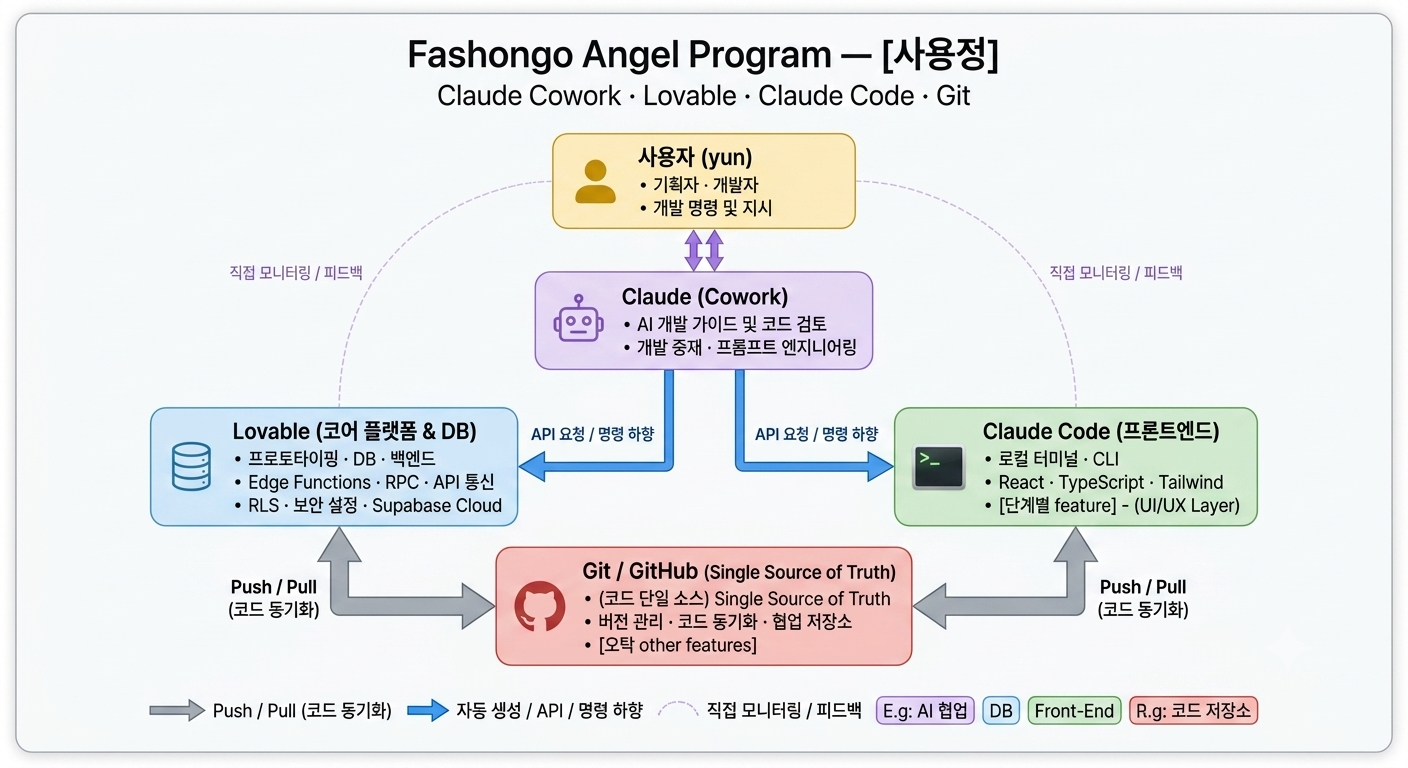
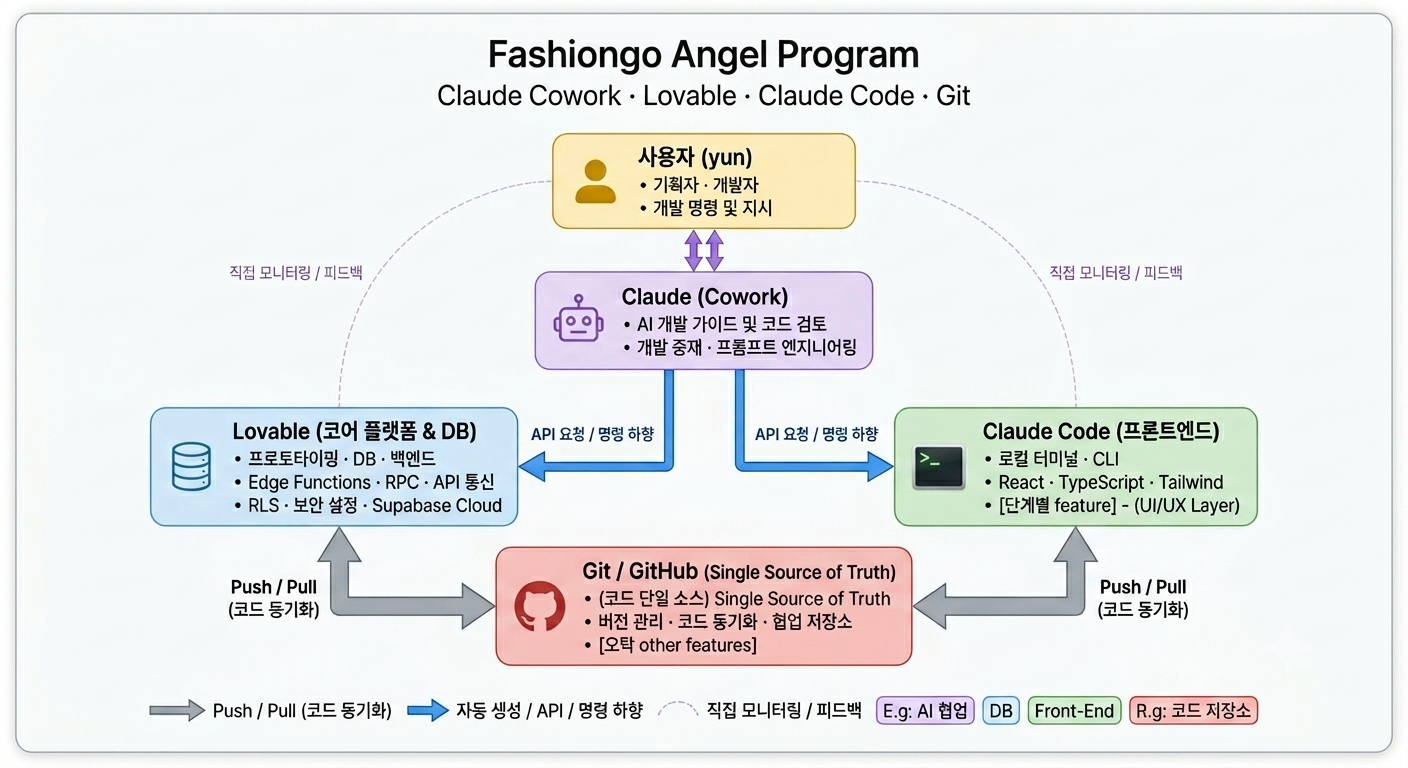
angels.html: 5 updates
1. 핵심 문제 3 타이틀 하위에 공장 사진 추가 (fg-angels-factories.png)
2. 05 갤러리 6번째 placeholder → 화이트보드 이미지 (fg-angels-extra.png)
3. 05 갤러리 안내문구('서비스 UI · 어드민...') 제거
4. 07 자료 유튜브 순서 변경: 스프린톤 1일차 → 2일차 → 1등팀 인터뷰
5. '사용 기술 스택' 도움말 light + gray 통일 (font-weight:300, color:#888)

diff --git a/angels.html b/angels.html
@@ -1411,7 +1411,7 @@
 <!-- ═══════════════════════════════════════ -->
 <!-- FG ANGELS (AI 프로젝트 — 신규)          -->
 <!-- ═══════════════════════════════════════ -->
-<section id="angels" class="prd-page"> <!-- Project cover --> <div class="prd-cover"> <div class="prd-cover-inner"> <div class="prd-cover-head"> <div> <div class="prd-cover-eyebrow">Project 01</div> <h1 class="prd-cover-title">FG Angels</h1> <p class="prd-cover-summary">북미 1위 B2B 패션 플랫폼 FashionGo의 아시아 공장 소싱 전 과정을 AI 에이전트로 자동화한 PoC.</p> </div> </div> <div class="prd-cover-meta"> <div class="prd-cover-meta-item"><span class="prd-cover-meta-label">Period</span><span class="prd-cover-meta-value">2026.03 – 2026.06</span></div> <div class="prd-cover-meta-item"><span class="prd-cover-meta-label">Team</span><span class="prd-cover-meta-value">NHN Commerce · 3인</span></div> <div class="prd-cover-meta-item"><span class="prd-cover-meta-label">Role</span><span class="prd-cover-meta-value">PM · Service Launcher</span></div> </div> </div> </div> <!-- Side nav --> <aside class="prd-side-nav" aria-label="Section navigation"> <ul class="prd-side-nav-list"> <li><a href="#angels-part1" data-scroll="angels-part1" class="sn-h1"><span class="sn-num">PART I</span><span class="sn-title">배경과 목표</span></a></li> <li><a href="#angels-overview" data-scroll="angels-overview"><span class="sn-num">00</span><span class="sn-title">개요</span></a></li> <li><a href="#angels-problem" data-scroll="angels-problem"><span class="sn-num">01</span><span class="sn-title">문제 정의</span></a></li> <li><a href="#angels-goals" data-scroll="angels-goals"><span class="sn-num">02</span><span class="sn-title">목표</span></a></li> <li><a href="#angels-part2" data-scroll="angels-part2" class="sn-h1"><span class="sn-num">PART II</span><span class="sn-title">실행과 결과</span></a></li> <li><a href="#angels-pipeline" data-scroll="angels-pipeline"><span class="sn-num">03</span><span class="sn-title">AI 에이전트 파이프라인</span></a></li> <li><a href="#angels-workflow" data-scroll="angels-workflow"><span class="sn-num">04</span><span class="sn-title">AI-Native 워크플로우</span></a></li> <li><a href="#angels-gallery" data-scroll="angels-gallery"><span class="sn-num">05</span><span class="sn-title">갤러리</span></a></li> <li><a href="#angels-learning" data-scroll="angels-learning"><span class="sn-num">06</span><span class="sn-title">학습과 회고</span></a></li> <li><a href="#angels-links" data-scroll="angels-links"><span class="sn-num">07</span><span class="sn-title">자료</span></a></li> </ul> </aside> <!-- Main --> <div class="prd-main"> <!-- PART I --> <section class="prd-part-divider" id="angels-part1"> <div class="prd-section-inner"> <div class="prd-part-eyebrow">PART I</div> <h1>배경과 목표</h1> <span class="prd-part-meta">Why &amp; What — 왜 만들었는가, 무엇을 이루려 했는가</span> </div> </section> <!-- 00 개요 --> <section class="prd-section" id="angels-overview"> <div class="prd-section-inner"> <div class="prd-section-tag"></div> <div class="prd-section-head"> <h2><span class="num-prefix">00</span>개요</h2> <p class="prd-lede">FG Angels는 북미 1위 B2B 패션 플랫폼 FashionGo의 <b>아시아 공장 소싱 전 과정을 AI 에이전트로 자동화한 PoC</b>입니다. 3년·50번의 출장이 필요하던 수동 소싱 프로세스를 AI 파이프라인으로 대체하는 것이 목표였습니다.</p> <p class="prd-lede">단 3인 크로스펑셔널 팀(도메인 전문가 · 기획자(본인) · 개발자)으로 기획부터 동작하는 프로토타입까지 단기간에 완성했고, <b>NHN AI 스프린톤 업무생산성 트랙</b>에서 12팀 중 1위로 선정됐습니다.</p> </div> <div class="prd-kpi-row"> <div class="prd-kpi"><div class="prd-kpi-value">1<span class="unit">위</span></div><div class="prd-kpi-label">NHN AI 스프린톤<br>업무생산성 트랙</div></div> <div class="prd-kpi"><div class="prd-kpi-value">12<span class="unit">팀</span></div><div class="prd-kpi-label">경쟁 팀 수</div></div> <div class="prd-kpi"><div class="prd-kpi-value">3<span class="unit">인</span></div><div class="prd-kpi-label">크로스펑셔널 팀 사이즈</div></div> <div class="prd-kpi"><div class="prd-kpi-value">1,000<span class="unit">만원</span></div><div class="prd-kpi-label">수상 상금</div></div> </div> <div class="prd-callout"> <div class="lbl">Key Takeaway</div> <p>FG Angels는 단순 업무 효율화 도구가 아니라, <b>글로벌 B2B 공급망 전 산업으로 확장 가능한 AI 인프라 구조</b>로 설계했습니다. 비개발자 기획자가 Lovable과 Claude Code를 직접 활용해 프로토타입을 End-to-End로 리딩한 것이 핵심입니다.</p> </div> </div> </section> <!-- 01 문제 정의 --> <section class="prd-section" id="angels-problem"> <div class="prd-section-inner"> <div class="prd-section-tag"></div> <div class="prd-section-head"> <h2><span class="num-prefix">01</span>문제 정의</h2> <p class="prd-lede">FashionGo는 큰 규모의 플랫폼이지만, 가장 중요한 <b>공급망(소싱) 단계가 100% 수동</b>으로 운영됐습니다. 공급망 디지털화가 서비스 규모를 따라가지 못한 상태가 핵심 문제입니다.</p> </div> <div class="prd-block"> <div class="prd-block-head"><h3>핵심 문제 3</h3></div> <div class="prd-problem-grid"> <div class="prd-problem-card"> <div class="pc-num">P1</div> <h3>수동 소싱 의존</h3> <p>아시아 공장 소싱이 3년 · 50번의 출장이 필요한 100% 수동 방식으로만 운영되어 시간·비용 비효율이 큽니다.</p> </div> <div class="prd-problem-card"> <div class="pc-num">P2</div> <h3>공급망 AI 부재</h3> <p>중국·한국 공장(1688 · Alibaba) → ERP → FashionGo로 이어지는 공급망 전체에 AI 자동화가 적용되지 않았습니다.</p> </div> <div class="prd-problem-card"> <div class="pc-num">P3</div> <h3>디지털화 격차</h3> <p>서비스 규모에 비해 공급망 디지털화는 크게 뒤처져 성장 한계를 만들고 있습니다.</p> </div> </div> </div> <div class="prd-callout important"> <div class="lbl">Important</div> <p>3가지 문제는 개별적인 문제가 아니라 하나의 사슬입니다. 수동 의존이 자동화 부재의 원인이며, 그 결과 디지털화 격차가 누적됩니다. 단계별 도구 개선이 아닌, <b>소싱 파이프라인 전체를 자동화하여 재설계</b>해야 풀리는 문제입니다.</p> </div> </div> </section> <!-- 02 목표와 성과 --> <section class="prd-section" id="angels-goals"> <div class="prd-section-inner"> <div class="prd-section-tag"></div> <div class="prd-section-head"> <h2><span class="num-prefix">02</span>목표</h2> <p class="prd-lede">목표는 단기 PoC를 통해 <b>AI 에이전트 기반 소싱 파이프라인의 가능성을 검증</b>하는 것이었습니다. 기획부터 동작하는 프로토타입까지 3개월 안에 End-to-End로 완성하는 것이 1차 목표였습니다.</p> </div> <div class="prd-block"> <div class="prd-table-wrap"> <table> <thead><tr><th>지표</th><th>목표</th><th>비고</th></tr></thead> <tbody> <tr><td class="lbl-cell">PoC 완성도</td><td>동작하는 프로토타입<br>End-to-End 동작</td><td>Lovable과 Claude Code 기반 개발 및 배포 완료</td></tr> <tr><td class="lbl-cell">대외 검증</td><td>스프린톤 통과<br>1위 · 상금 1,000만원</td><td>업무생산성 트랙 참자가 12팀 中</td></tr> <tr><td class="lbl-cell">대중 노출</td><td>한경 등 뉴스 기사 2건</td><td>YouTube 데모 영상 공개</td></tr></tbody> </table> </div> </div> <div class="prd-callout"> <div class="lbl">So What</div> <p>3가지 결과 중 가장 의미 있는 건 <b>비개발자 기획자가 동작하는 프로토타입을 직접 만들어 검증까지 받아냈다는 점</b>입니다. 나머지(스프린톤 수상 · 뉴스 노출)는 이를 뒷받침하는 결과 지표이고, 기획자의 직접 구현은 이번 프로젝트가 보여준 새로운 작업 방식의 핵심입니다.</p> </div> </div> </section> <!-- PART II --> <section class="prd-part-divider" id="angels-part2"> <div class="prd-section-inner"> <div class="prd-part-eyebrow">PART II</div> <h1>실행과 결과</h1> <span class="prd-part-meta">How — 무엇을 만들고, 어떻게 만들었는가</span> </div> </section> <!-- 03 AI 파이프라인 --> <section class="prd-section" id="angels-pipeline"> <div class="prd-section-inner"> <div class="prd-section-tag"></div> <div class="prd-section-head"> <h2><span class="num-prefix">03</span>AI 에이전트 파이프라인</h2> <p class="prd-lede">FG Angels의 핵심은 <b>트렌드 분석 → 공장 소싱 → 스코어링 → 자기학습 → 자동 등록</b>까지 이어지는 5단계 자동화 파이프라인입니다. 24h Agent로 무중단 동작하도록 설계했습니다.</p> </div> <div class="prd-block"> <div class="prd-block-head"><h3>5단계 자동화 흐름</h3></div> <figure style="margin:24px 0;"><div style="background:#fafafa;border:1px solid #eee;border-radius:12px;overflow:hidden;"><img loading="lazy" decoding="async" src="images/fg-angels-dashboard.png" alt="Angel Program 대시보드 — 운영 현황 + Angel Agent 7단계 워크플로 진행률" style="width:100%;display:block;"></div><figcaption style="font-size:12px;color:#888;margin-top:10px;text-align:center;line-height:1.5;">Angel Program 어드민 대시보드 — 운영 현황 · Angel Agent 7단계 워크플로 진행률</figcaption></figure> <div class="prd-table-wrap"> <table> <thead><tr><th>단계</th><th>설명</th></tr></thead> <tbody> <tr><td class="lbl-cell">01 · 트렌드 분석</td><td>북미 패션 트렌드 수집·분석</td></tr> <tr><td class="lbl-cell">02 · 공장 소싱</td><td>1688 · Alibaba 자동 탐색·매칭</td></tr> <tr><td class="lbl-cell">03 · 공장 스코어링</td><td>AI 기반 품질·신뢰도 자동 평가</td></tr> <tr><td class="lbl-cell">04 · 자기학습</td><td>피드백 기반 모델 자동 개선</td></tr> <tr><td class="lbl-cell">05 · 자동 등록</td><td>FashionGo ERP 자동 상품 등록</td></tr> </tbody> </table> </div> <p style="font-size:12px;color:#888;margin-top:14px;line-height:1.7;"><strong style="color:#555;">사용 기술 스택</strong> · Vision AI · Gemini 2.5 Flash · Vertex AI · 24h Agent · <span style="color:#191919;font-weight:600;">Lovable</span> · <span style="color:#191919;font-weight:600;">Claude Code</span></p> </div> <div class="prd-callout note"> <div class="lbl">Note</div> <p>단순 업무 효율화가 아닌 <b>글로벌 B2B 전 산업으로 확장 가능한 AI 인프라 구조</b>로 설계했습니다. 5단계는 패션·소싱에 국한되지 않고, 다른 도메인의 공급망에도 그대로 응용 가능한 추상화 수준을 유지했습니다.</p> </div> </div> </section> <!-- 04 AI-Native 워크플로우 --> <section class="prd-section" id="angels-workflow"> <div class="prd-section-inner"> <div class="prd-section-tag"></div> <div class="prd-section-head"> <h2><span class="num-prefix">04</span>AI-Native 워크플로우</h2> <p class="prd-lede">비개발자 기획자 · 도메인 전문가 · 개발자, 3인이 <b>Lovable · Claude Code · Git을 결합해 동시다발적으로 커밋·배포</b>한 AI 네이티브 협업 구조입니다. 기획자가 Git 워크플로우에 직접 참여한 것이 가장 큰 차별점입니다.</p> </div> <div class="prd-block"> <div class="prd-block-head"><h3>3-Tool Stack</h3></div> <figure style="margin:24px 0;"><div style="background:#fafafa;border:1px solid #eee;border-radius:12px;overflow:hidden;"><img loading="lazy" decoding="async" src="images/fg-angels-tool-stack.png" alt="Fashongo Angel Program — Claude Cowork · Lovable · Claude Code · Git 협업 다이어그램" style="width:100%;display:block;"></div><figcaption style="font-size:12px;color:#888;margin-top:10px;text-align:center;line-height:1.5;">Fashongo Angel Program · Claude Cowork · Lovable · Claude Code · Git 협업 구조</figcaption></figure> <div class="prd-tool-stack"> <div class="prd-tool-card"> <div class="tool-role">UI · 프로토타이핑</div> <div class="tool-name">Lovable</div> <p>자연어 프롬프트로 React 화면을 즉시 생성·수정. 기획자가 직접 UI를 만들어 빠르게 검증.</p> </div> <div class="prd-tool-card"> <div class="tool-role">로직 · 리팩토링 · 디버깅</div> <div class="tool-name">Claude Code</div> <p>Lovable이 다루기 어려운 복잡 로직 · API 연동 · 머지 충돌을 CLI 기반으로 처리. 코드 품질 보강.</p> </div> <div class="prd-tool-card"> <div class="tool-role">동시 커밋 · 배포</div> <div class="tool-name">Git · GitHub</div> <p>Lovable 프로젝트를 GitHub에 연결. 3명이 각자 브랜치에서 동시 작업, 머지 후 자동 배포까지.</p> </div> </div> </div> <div class="prd-block"> <div class="prd-block-head"><h3>3인 동시다발 커밋</h3></div> <div class="prd-insight-list"> <div class="prd-insight-row"> <div class="prd-insight-num">1</div> <div class="prd-insight-body"> <div class="prd-insight-title">기획자(본인) — 트렌드 분석 · 상품 매칭 · UI</div> <p>북미 패션 <b>트렌드 분석 및 리포트</b>, <b>소싱 가능 상품 · 타겟 상품 · 유사 상품 자동 매칭</b> 기능을 직접 구현. Lovable로 화면을 만들고 Claude Code로 로직·디테일을 다듬어 git commit · push까지. 비개발자도 Git 워크플로우에 직접 참여.</p> </div> </div> <div class="prd-insight-row"> <div class="prd-insight-num">2</div> <div class="prd-insight-body"> <div class="prd-insight-title">개발자 — AI 파이프라인 · API</div> <p>Vertex AI · Gemini 연동 → Claude Code로 리팩토링 → git commit · push.</p> </div> </div> <div class="prd-insight-row"> <div class="prd-insight-num">3</div> <div class="prd-insight-body"> <div class="prd-insight-title">도메인 전문가 — 공장 스코어링 · 에이전트 프로세스</div> <p><b>공장 스코어링 룰 설계</b>와 <b>대시보드 에이전트 프로세스 정립</b>을 담당. 도메인 지식을 기준으로 룰을 짜고, Claude Code로 코드화 → git commit · push.</p> </div> </div> </div> </div> <div class="prd-block"> <div class="prd-block-head"><h3>머지 → 동기화 → 배포</h3></div> <div class="prd-flow"> <div class="prd-flow-step"><div class="prd-flow-num">01</div><div><div class="prd-flow-name">GitHub 머지</div><div class="prd-flow-desc">Claude Code가 충돌 해결 · 리뷰 보조</div></div></div> <div class="prd-flow-step"><div class="prd-flow-num">02</div><div><div class="prd-flow-name">Lovable 동기화</div><div class="prd-flow-desc">main 브랜치 변경 자동 반영</div></div></div> <div class="prd-flow-step"><div class="prd-flow-num">03</div><div><div class="prd-flow-name">자동 배포</div><div class="prd-flow-desc">factory-finder-fashiongo.lovable.app</div></div></div> </div> </div>  <div class="prd-callout"> <div class="lbl">Highlight</div> <p>결과적으로 <b>비개발자 기획자도 Git 워크플로우에 직접 참여</b>해 코드를 커밋·배포할 수 있었고, AI가 충돌 해결·코드 품질을 보조하면서 3인 팀의 개발 속도를 크게 단축시켰습니다. 기획자가 Service Launcher가 될 수 있다는 가설을 실제 출시로 증명한 사례입니다.</p> </div> </div> </section> <!-- 05 갤러리 --> <section class="prd-section" id="angels-gallery"> <div class="prd-section-inner"> <div class="prd-section-tag"></div> <div class="prd-section-head"> <h2><span class="num-prefix">05</span>갤러리</h2> <p class="prd-lede">서비스 UI · 어드민 대시보드 · 팀 활동을 한 자리에 모았습니다. 6번째 슬롯에 추후 이미지를 추가할 예정입니다.</p> </div> <div class="prd-gallery"> <figure> <div class="img-frame"><img loading="lazy" decoding="async" src="images/fg-angels-service.png" alt="FG Angels 트렌드 상품 탐색 화면"></div> <figcaption>실제 서비스 UI · 트렌드 상품 탐색</figcaption> </figure> <figure> <div class="img-frame"><img loading="lazy" decoding="async" src="images/fg-angels-presentation.png" alt="NHN AI 스프린톤 발표 슬라이드"></div> <figcaption>발표 슬라이드 · 미녀삼총사 팀</figcaption> </figure> <figure> <div class="img-frame"><img loading="lazy" decoding="async" src="images/fg-angels-team.png" alt="FG Angels 팀 인터뷰"></div> <figcaption>팀 인터뷰 · 손주영 · 윤혜련 · 임동빈</figcaption> </figure> <figure> <div class="img-frame"><img loading="lazy" decoding="async" src="images/fg-angels-matching.png" alt="소싱 매칭 결과 어드민"></div> <figcaption>소싱 매칭 결과 — 트렌드 ↔ 공장 자동 매칭</figcaption> </figure> <figure> <div class="img-frame"><img loading="lazy" decoding="async" src="images/fg-angels-report.png" alt="트렌드 리포트 어드민"></div> <figcaption>트렌드 리포트 — SNS·커머스 트렌드 키워드 분석</figcaption> </figure> <figure> <div class="img-frame empty"> <div style="font-size:24px;opacity:0.4;"></div> <div style="font-size:12px;">images/fg-angels-extra.png</div> <div style="font-size:11px;color:#999;">추가 이미지 자리</div> </div> <figcaption>추가 이미지 (예정)</figcaption> </figure> </div> </div> </section> <!-- 06 학습과 회고 --> <section class="prd-section" id="angels-learning"> <div class="prd-section-inner"> <div class="prd-section-tag"></div> <div class="prd-section-head"> <h2><span class="num-prefix">06</span>학습과 회고</h2> <p class="prd-lede">이번 프로젝트가 남긴 가장 큰 자산은 결과물 자체가 아니라, <b>"기획자가 직접 서비스를 런칭할 수 있다"는 가설을 스스로 검증했다는 점</b>입니다.</p> </div> <div class="prd-insight-list"> <div class="prd-insight-row"> <div class="prd-insight-num">1</div> <div class="prd-insight-body"> <div class="prd-insight-title">3인 크로스펑셔널 협업의 가능성</div> <p>도메인 전문가 · 개발자와 함께 아이디어부터 실제 동작하는 AI 에이전트까지 단기간에 구현. 각 역할의 언어를 이해하고 조율하는 기획자의 역할을 체득.</p> </div> </div> <div class="prd-insight-row"> <div class="prd-insight-num">2</div> <div class="prd-insight-body"> <div class="prd-insight-title">기획자 → Service Launcher 전환</div> <p>AI 툴(Lovable · Claude Code 등)을 직접 다루어 기획서를 넘어 실제 동작하는 프로토타입을 구현. 기획자도 서비스를 직접 런칭할 수 있음을 스스로 증명.</p> </div> </div> </div> </div> </section> <!-- 07 자료 --> <section class="prd-section" id="angels-links"> <div class="prd-section-inner"> <div class="prd-section-tag"></div> <div class="prd-section-head"> <h2><span class="num-prefix">07</span>자료</h2> <p class="prd-lede">실제 서비스 · 발표 자료 · 데모 영상 · 뉴스 보도를 모두 모았습니다.</p> </div> <div class="prd-block"> <div class="prd-video-grid"> <figure class="prd-video"> <iframe loading="lazy" src="https://www.youtube.com/embed/_2gPgEb4iJo" title="FG Angels 데모 영상" allow="accelerometer; clipboard-write; encrypted-media; gyroscope; picture-in-picture; web-share" allowfullscreen></iframe> <figcaption>1등팀 인터뷰</figcaption> </figure> <figure class="prd-video"> <iframe loading="lazy" src="https://www.youtube.com/embed/yk9EnnziWVw" title="NHN AI 스프린톤 1일차" allow="accelerometer; clipboard-write; encrypted-media; gyroscope; picture-in-picture; web-share" allowfullscreen></iframe> <figcaption>스프린톤 1일차 (라이브)</figcaption> </figure> <figure class="prd-video"> <iframe loading="lazy" src="https://www.youtube.com/embed/w5h4cxDSTog" title="NHN AI 스프린톤 2일차" allow="accelerometer; clipboard-write; encrypted-media; gyroscope; picture-in-picture; web-share" allowfullscreen></iframe> <figcaption>스프린톤 2일차 (라이브)</figcaption> </figure> </div> </div> <div class="prd-block"> <div class="prd-table-wrap"> <table> <thead><tr><th>구분</th><th>제목</th><th>링크</th></tr></thead> <tbody> <tr><td class="lbl-cell">실제 서비스</td><td>FG Angels (Lovable)</td><td><a href="https://factory-finder-fashiongo.lovable.app/" target="_blank" rel="noopener">factory-finder-fashiongo.lovable.app</a></td></tr> <tr><td class="lbl-cell">발표 자료</td><td>Gamma 슬라이드</td><td><a href="https://gamma.app/docs/FG-Angels-ngjjjxo4700hh9s?mode=doc" target="_blank" rel="noopener">gamma.app/docs/FG-Angels</a></td></tr> <tr><td class="lbl-cell">뉴스</td><td>한국경제 (092)</td><td><a href="https://n.news.naver.com/mnews/article/092/[phone redacted]?sid=105" target="_blank" rel="noopener">n.news.naver.com/092/[phone redacted]</a></td></tr> <tr><td class="lbl-cell">뉴스</td><td>한국경제 (018)</td><td><a href="https://n.news.naver.com/mnews/article/018/[phone redacted]?sid=105" target="_blank" rel="noopener">n.news.naver.com/018/[phone redacted]</a></td></tr> </tbody> </table> </div> </div> </div> </section> </div> <div class="prd-back-list-wrap"><a href="portfolio.html" class="prd-back-list">← 목록 보기</a></div> <!-- Footer --> <footer class="prd-footer"> <div class="prd-footer-inner"> <div class="prd-footer-row"> <div class="prd-footer-left"> <div class="prd-footer-title">FG Angels — AI Agent for FashionGo</div> <div class="prd-footer-sub">윤혜련 · Service Product Manager · 2026.03 – 2026.06</div> </div> <div class="prd-footer-contact"> <a href="mailto:[email redacted]" class="prd-footer-link"> <span aria-hidden="true"></span> [email redacted]
+<section id="angels" class="prd-page"> <!-- Project cover --> <div class="prd-cover"> <div class="prd-cover-inner"> <div class="prd-cover-head"> <div> <div class="prd-cover-eyebrow">Project 01</div> <h1 class="prd-cover-title">FG Angels</h1> <p class="prd-cover-summary">북미 1위 B2B 패션 플랫폼 FashionGo의 아시아 공장 소싱 전 과정을 AI 에이전트로 자동화한 PoC.</p> </div> </div> <div class="prd-cover-meta"> <div class="prd-cover-meta-item"><span class="prd-cover-meta-label">Period</span><span class="prd-cover-meta-value">2026.03 – 2026.06</span></div> <div class="prd-cover-meta-item"><span class="prd-cover-meta-label">Team</span><span class="prd-cover-meta-value">NHN Commerce · 3인</span></div> <div class="prd-cover-meta-item"><span class="prd-cover-meta-label">Role</span><span class="prd-cover-meta-value">PM · Service Launcher</span></div> </div> </div> </div> <!-- Side nav --> <aside class="prd-side-nav" aria-label="Section navigation"> <ul class="prd-side-nav-list"> <li><a href="#angels-part1" data-scroll="angels-part1" class="sn-h1"><span class="sn-num">PART I</span><span class="sn-title">배경과 목표</span></a></li> <li><a href="#angels-overview" data-scroll="angels-overview"><span class="sn-num">00</span><span class="sn-title">개요</span></a></li> <li><a href="#angels-problem" data-scroll="angels-problem"><span class="sn-num">01</span><span class="sn-title">문제 정의</span></a></li> <li><a href="#angels-goals" data-scroll="angels-goals"><span class="sn-num">02</span><span class="sn-title">목표</span></a></li> <li><a href="#angels-part2" data-scroll="angels-part2" class="sn-h1"><span class="sn-num">PART II</span><span class="sn-title">실행과 결과</span></a></li> <li><a href="#angels-pipeline" data-scroll="angels-pipeline"><span class="sn-num">03</span><span class="sn-title">AI 에이전트 파이프라인</span></a></li> <li><a href="#angels-workflow" data-scroll="angels-workflow"><span class="sn-num">04</span><span class="sn-title">AI-Native 워크플로우</span></a></li> <li><a href="#angels-gallery" data-scroll="angels-gallery"><span class="sn-num">05</span><span class="sn-title">갤러리</span></a></li> <li><a href="#angels-learning" data-scroll="angels-learning"><span class="sn-num">06</span><span class="sn-title">학습과 회고</span></a></li> <li><a href="#angels-links" data-scroll="angels-links"><span class="sn-num">07</span><span class="sn-title">자료</span></a></li> </ul> </aside> <!-- Main --> <div class="prd-main"> <!-- PART I --> <section class="prd-part-divider" id="angels-part1"> <div class="prd-section-inner"> <div class="prd-part-eyebrow">PART I</div> <h1>배경과 목표</h1> <span class="prd-part-meta">Why &amp; What — 왜 만들었는가, 무엇을 이루려 했는가</span> </div> </section> <!-- 00 개요 --> <section class="prd-section" id="angels-overview"> <div class="prd-section-inner"> <div class="prd-section-tag"></div> <div class="prd-section-head"> <h2><span class="num-prefix">00</span>개요</h2> <p class="prd-lede">FG Angels는 북미 1위 B2B 패션 플랫폼 FashionGo의 <b>아시아 공장 소싱 전 과정을 AI 에이전트로 자동화한 PoC</b>입니다. 3년·50번의 출장이 필요하던 수동 소싱 프로세스를 AI 파이프라인으로 대체하는 것이 목표였습니다.</p> <p class="prd-lede">단 3인 크로스펑셔널 팀(도메인 전문가 · 기획자(본인) · 개발자)으로 기획부터 동작하는 프로토타입까지 단기간에 완성했고, <b>NHN AI 스프린톤 업무생산성 트랙</b>에서 12팀 중 1위로 선정됐습니다.</p> </div> <div class="prd-kpi-row"> <div class="prd-kpi"><div class="prd-kpi-value">1<span class="unit">위</span></div><div class="prd-kpi-label">NHN AI 스프린톤<br>업무생산성 트랙</div></div> <div class="prd-kpi"><div class="prd-kpi-value">12<span class="unit">팀</span></div><div class="prd-kpi-label">경쟁 팀 수</div></div> <div class="prd-kpi"><div class="prd-kpi-value">3<span class="unit">인</span></div><div class="prd-kpi-label">크로스펑셔널 팀 사이즈</div></div> <div class="prd-kpi"><div class="prd-kpi-value">1,000<span class="unit">만원</span></div><div class="prd-kpi-label">수상 상금</div></div> </div> <div class="prd-callout"> <div class="lbl">Key Takeaway</div> <p>FG Angels는 단순 업무 효율화 도구가 아니라, <b>글로벌 B2B 공급망 전 산업으로 확장 가능한 AI 인프라 구조</b>로 설계했습니다. 비개발자 기획자가 Lovable과 Claude Code를 직접 활용해 프로토타입을 End-to-End로 리딩한 것이 핵심입니다.</p> </div> </div> </section> <!-- 01 문제 정의 --> <section class="prd-section" id="angels-problem"> <div class="prd-section-inner"> <div class="prd-section-tag"></div> <div class="prd-section-head"> <h2><span class="num-prefix">01</span>문제 정의</h2> <p class="prd-lede">FashionGo는 큰 규모의 플랫폼이지만, 가장 중요한 <b>공급망(소싱) 단계가 100% 수동</b>으로 운영됐습니다. 공급망 디지털화가 서비스 규모를 따라가지 못한 상태가 핵심 문제입니다.</p> </div> <div class="prd-block"> <div class="prd-block-head"><h3>핵심 문제 3</h3></div> <figure style="margin:24px 0;"><div style="background:#fafafa;border:1px solid #eee;border-radius:12px;overflow:hidden;"><img loading="lazy" decoding="async" src="images/fg-angels-factories.png" alt="아시아 공장 소싱 — 수동 운영 현장 사진들" style="width:100%;display:block;"></div><figcaption style="font-size:12px;color:#888;margin-top:10px;text-align:center;line-height:1.5;">아시아 공장 소싱 현장 — 100% 수동 운영 중</figcaption></figure> <div class="prd-problem-grid"> <div class="prd-problem-card"> <div class="pc-num">P1</div> <h3>수동 소싱 의존</h3> <p>아시아 공장 소싱이 3년 · 50번의 출장이 필요한 100% 수동 방식으로만 운영되어 시간·비용 비효율이 큽니다.</p> </div> <div class="prd-problem-card"> <div class="pc-num">P2</div> <h3>공급망 AI 부재</h3> <p>중국·한국 공장(1688 · Alibaba) → ERP → FashionGo로 이어지는 공급망 전체에 AI 자동화가 적용되지 않았습니다.</p> </div> <div class="prd-problem-card"> <div class="pc-num">P3</div> <h3>디지털화 격차</h3> <p>서비스 규모에 비해 공급망 디지털화는 크게 뒤처져 성장 한계를 만들고 있습니다.</p> </div> </div> </div> <div class="prd-callout important"> <div class="lbl">Important</div> <p>3가지 문제는 개별적인 문제가 아니라 하나의 사슬입니다. 수동 의존이 자동화 부재의 원인이며, 그 결과 디지털화 격차가 누적됩니다. 단계별 도구 개선이 아닌, <b>소싱 파이프라인 전체를 자동화하여 재설계</b>해야 풀리는 문제입니다.</p> </div> </div> </section> <!-- 02 목표와 성과 --> <section class="prd-section" id="angels-goals"> <div class="prd-section-inner"> <div class="prd-section-tag"></div> <div class="prd-section-head"> <h2><span class="num-prefix">02</span>목표</h2> <p class="prd-lede">목표는 단기 PoC를 통해 <b>AI 에이전트 기반 소싱 파이프라인의 가능성을 검증</b>하는 것이었습니다. 기획부터 동작하는 프로토타입까지 3개월 안에 End-to-End로 완성하는 것이 1차 목표였습니다.</p> </div> <div class="prd-block"> <div class="prd-table-wrap"> <table> <thead><tr><th>지표</th><th>목표</th><th>비고</th></tr></thead> <tbody> <tr><td class="lbl-cell">PoC 완성도</td><td>동작하는 프로토타입<br>End-to-End 동작</td><td>Lovable과 Claude Code 기반 개발 및 배포 완료</td></tr> <tr><td class="lbl-cell">대외 검증</td><td>스프린톤 통과<br>1위 · 상금 1,000만원</td><td>업무생산성 트랙 참자가 12팀 中</td></tr> <tr><td class="lbl-cell">대중 노출</td><td>한경 등 뉴스 기사 2건</td><td>YouTube 데모 영상 공개</td></tr></tbody> </table> </div> </div> <div class="prd-callout"> <div class="lbl">So What</div> <p>3가지 결과 중 가장 의미 있는 건 <b>비개발자 기획자가 동작하는 프로토타입을 직접 만들어 검증까지 받아냈다는 점</b>입니다. 나머지(스프린톤 수상 · 뉴스 노출)는 이를 뒷받침하는 결과 지표이고, 기획자의 직접 구현은 이번 프로젝트가 보여준 새로운 작업 방식의 핵심입니다.</p> </div> </div> </section> <!-- PART II --> <section class="prd-part-divider" id="angels-part2"> <div class="prd-section-inner"> <div class="prd-part-eyebrow">PART II</div> <h1>실행과 결과</h1> <span class="prd-part-meta">How — 무엇을 만들고, 어떻게 만들었는가</span> </div> </section> <!-- 03 AI 파이프라인 --> <section class="prd-section" id="angels-pipeline"> <div class="prd-section-inner"> <div class="prd-section-tag"></div> <div class="prd-section-head"> <h2><span class="num-prefix">03</span>AI 에이전트 파이프라인</h2> <p class="prd-lede">FG Angels의 핵심은 <b>트렌드 분석 → 공장 소싱 → 스코어링 → 자기학습 → 자동 등록</b>까지 이어지는 5단계 자동화 파이프라인입니다. 24h Agent로 무중단 동작하도록 설계했습니다.</p> </div> <div class="prd-block"> <div class="prd-block-head"><h3>5단계 자동화 흐름</h3></div> <figure style="margin:24px 0;"><div style="background:#fafafa;border:1px solid #eee;border-radius:12px;overflow:hidden;"><img loading="lazy" decoding="async" src="images/fg-angels-dashboard.png" alt="Angel Program 대시보드 — 운영 현황 + Angel Agent 7단계 워크플로 진행률" style="width:100%;display:block;"></div><figcaption style="font-size:12px;color:#888;margin-top:10px;text-align:center;line-height:1.5;">Angel Program 어드민 대시보드 — 운영 현황 · Angel Agent 7단계 워크플로 진행률</figcaption></figure> <div class="prd-table-wrap"> <table> <thead><tr><th>단계</th><th>설명</th></tr></thead> <tbody> <tr><td class="lbl-cell">01 · 트렌드 분석</td><td>북미 패션 트렌드 수집·분석</td></tr> <tr><td class="lbl-cell">02 · 공장 소싱</td><td>1688 · Alibaba 자동 탐색·매칭</td></tr> <tr><td class="lbl-cell">03 · 공장 스코어링</td><td>AI 기반 품질·신뢰도 자동 평가</td></tr> <tr><td class="lbl-cell">04 · 자기학습</td><td>피드백 기반 모델 자동 개선</td></tr> <tr><td class="lbl-cell">05 · 자동 등록</td><td>FashionGo ERP 자동 상품 등록</td></tr> </tbody> </table> </div> <p style="font-size:12px;color:#888;font-weight:300;margin-top:14px;line-height:1.7;">사용 기술 스택 · Vision AI · Gemini 2.5 Flash · Vertex AI · 24h Agent · Lovable · Claude Code</p> </div> <div class="prd-callout note"> <div class="lbl">Note</div> <p>단순 업무 효율화가 아닌 <b>글로벌 B2B 전 산업으로 확장 가능한 AI 인프라 구조</b>로 설계했습니다. 5단계는 패션·소싱에 국한되지 않고, 다른 도메인의 공급망에도 그대로 응용 가능한 추상화 수준을 유지했습니다.</p> </div> </div> </section> <!-- 04 AI-Native 워크플로우 --> <section class="prd-section" id="angels-workflow"> <div class="prd-section-inner"> <div class="prd-section-tag"></div> <div class="prd-section-head"> <h2><span class="num-prefix">04</span>AI-Native 워크플로우</h2> <p class="prd-lede">비개발자 기획자 · 도메인 전문가 · 개발자, 3인이 <b>Lovable · Claude Code · Git을 결합해 동시다발적으로 커밋·배포</b>한 AI 네이티브 협업 구조입니다. 기획자가 Git 워크플로우에 직접 참여한 것이 가장 큰 차별점입니다.</p> </div> <div class="prd-block"> <div class="prd-block-head"><h3>3-Tool Stack</h3></div> <figure style="margin:24px 0;"><div style="background:#fafafa;border:1px solid #eee;border-radius:12px;overflow:hidden;"><img loading="lazy" decoding="async" src="images/fg-angels-tool-stack.png" alt="Fashongo Angel Program — Claude Cowork · Lovable · Claude Code · Git 협업 다이어그램" style="width:100%;display:block;"></div><figcaption style="font-size:12px;color:#888;margin-top:10px;text-align:center;line-height:1.5;">Fashongo Angel Program · Claude Cowork · Lovable · Claude Code · Git 협업 구조</figcaption></figure> <div class="prd-tool-stack"> <div class="prd-tool-card"> <div class="tool-role">UI · 프로토타이핑</div> <div class="tool-name">Lovable</div> <p>자연어 프롬프트로 React 화면을 즉시 생성·수정. 기획자가 직접 UI를 만들어 빠르게 검증.</p> </div> <div class="prd-tool-card"> <div class="tool-role">로직 · 리팩토링 · 디버깅</div> <div class="tool-name">Claude Code</div> <p>Lovable이 다루기 어려운 복잡 로직 · API 연동 · 머지 충돌을 CLI 기반으로 처리. 코드 품질 보강.</p> </div> <div class="prd-tool-card"> <div class="tool-role">동시 커밋 · 배포</div> <div class="tool-name">Git · GitHub</div> <p>Lovable 프로젝트를 GitHub에 연결. 3명이 각자 브랜치에서 동시 작업, 머지 후 자동 배포까지.</p> </div> </div> </div> <div class="prd-block"> <div class="prd-block-head"><h3>3인 동시다발 커밋</h3></div> <div class="prd-insight-list"> <div class="prd-insight-row"> <div class="prd-insight-num">1</div> <div class="prd-insight-body"> <div class="prd-insight-title">기획자(본인) — 트렌드 분석 · 상품 매칭 · UI</div> <p>북미 패션 <b>트렌드 분석 및 리포트</b>, <b>소싱 가능 상품 · 타겟 상품 · 유사 상품 자동 매칭</b> 기능을 직접 구현. Lovable로 화면을 만들고 Claude Code로 로직·디테일을 다듬어 git commit · push까지. 비개발자도 Git 워크플로우에 직접 참여.</p> </div> </div> <div class="prd-insight-row"> <div class="prd-insight-num">2</div> <div class="prd-insight-body"> <div class="prd-insight-title">개발자 — AI 파이프라인 · API</div> <p>Vertex AI · Gemini 연동 → Claude Code로 리팩토링 → git commit · push.</p> </div> </div> <div class="prd-insight-row"> <div class="prd-insight-num">3</div> <div class="prd-insight-body"> <div class="prd-insight-title">도메인 전문가 — 공장 스코어링 · 에이전트 프로세스</div> <p><b>공장 스코어링 룰 설계</b>와 <b>대시보드 에이전트 프로세스 정립</b>을 담당. 도메인 지식을 기준으로 룰을 짜고, Claude Code로 코드화 → git commit · push.</p> </div> </div> </div> </div> <div class="prd-block"> <div class="prd-block-head"><h3>머지 → 동기화 → 배포</h3></div> <div class="prd-flow"> <div class="prd-flow-step"><div class="prd-flow-num">01</div><div><div class="prd-flow-name">GitHub 머지</div><div class="prd-flow-desc">Claude Code가 충돌 해결 · 리뷰 보조</div></div></div> <div class="prd-flow-step"><div class="prd-flow-num">02</div><div><div class="prd-flow-name">Lovable 동기화</div><div class="prd-flow-desc">main 브랜치 변경 자동 반영</div></div></div> <div class="prd-flow-step"><div class="prd-flow-num">03</div><div><div class="prd-flow-name">자동 배포</div><div class="prd-flow-desc">factory-finder-fashiongo.lovable.app</div></div></div> </div> </div>  <div class="prd-callout"> <div class="lbl">Highlight</div> <p>결과적으로 <b>비개발자 기획자도 Git 워크플로우에 직접 참여</b>해 코드를 커밋·배포할 수 있었고, AI가 충돌 해결·코드 품질을 보조하면서 3인 팀의 개발 속도를 크게 단축시켰습니다. 기획자가 Service Launcher가 될 수 있다는 가설을 실제 출시로 증명한 사례입니다.</p> </div> </div> </section> <!-- 05 갤러리 --> <section class="prd-section" id="angels-gallery"> <div class="prd-section-inner"> <div class="prd-section-tag"></div> <div class="prd-section-head"> <h2><span class="num-prefix">05</span>갤러리</h2> </div> <div class="prd-gallery"> <figure> <div class="img-frame"><img loading="lazy" decoding="async" src="images/fg-angels-service.png" alt="FG Angels 트렌드 상품 탐색 화면"></div> <figcaption>실제 서비스 UI · 트렌드 상품 탐색</figcaption> </figure> <figure> <div class="img-frame"><img loading="lazy" decoding="async" src="images/fg-angels-presentation.png" alt="NHN AI 스프린톤 발표 슬라이드"></div> <figcaption>발표 슬라이드 · 미녀삼총사 팀</figcaption> </figure> <figure> <div class="img-frame"><img loading="lazy" decoding="async" src="images/fg-angels-team.png" alt="FG Angels 팀 인터뷰"></div> <figcaption>팀 인터뷰 · 손주영 · 윤혜련 · 임동빈</figcaption> </figure> <figure> <div class="img-frame"><img loading="lazy" decoding="async" src="images/fg-angels-matching.png" alt="소싱 매칭 결과 어드민"></div> <figcaption>소싱 매칭 결과 — 트렌드 ↔ 공장 자동 매칭</figcaption> </figure> <figure> <div class="img-frame"><img loading="lazy" decoding="async" src="images/fg-angels-report.png" alt="트렌드 리포트 어드민"></div> <figcaption>트렌드 리포트 — SNS·커머스 트렌드 키워드 분석</figcaption> </figure> <figure> <div class="img-frame"><img loading="lazy" decoding="async" src="images/fg-angels-extra.png" alt="화이트보드 — 시스템 아키텍처 · 트렌드 분석 플로우 스케치"></div> <figcaption>화이트보드 — 시스템 아키텍처 · 트렌드 분석 플로우 스케치</figcaption> </figure> </div> </div> </section> <!-- 06 학습과 회고 --> <section class="prd-section" id="angels-learning"> <div class="prd-section-inner"> <div class="prd-section-tag"></div> <div class="prd-section-head"> <h2><span class="num-prefix">06</span>학습과 회고</h2> <p class="prd-lede">이번 프로젝트가 남긴 가장 큰 자산은 결과물 자체가 아니라, <b>"기획자가 직접 서비스를 런칭할 수 있다"는 가설을 스스로 검증했다는 점</b>입니다.</p> </div> <div class="prd-insight-list"> <div class="prd-insight-row"> <div class="prd-insight-num">1</div> <div class="prd-insight-body"> <div class="prd-insight-title">3인 크로스펑셔널 협업의 가능성</div> <p>도메인 전문가 · 개발자와 함께 아이디어부터 실제 동작하는 AI 에이전트까지 단기간에 구현. 각 역할의 언어를 이해하고 조율하는 기획자의 역할을 체득.</p> </div> </div> <div class="prd-insight-row"> <div class="prd-insight-num">2</div> <div class="prd-insight-body"> <div class="prd-insight-title">기획자 → Service Launcher 전환</div> <p>AI 툴(Lovable · Claude Code 등)을 직접 다루어 기획서를 넘어 실제 동작하는 프로토타입을 구현. 기획자도 서비스를 직접 런칭할 수 있음을 스스로 증명.</p> </div> </div> </div> </div> </section> <!-- 07 자료 --> <section class="prd-section" id="angels-links"> <div class="prd-section-inner"> <div class="prd-section-tag"></div> <div class="prd-section-head"> <h2><span class="num-prefix">07</span>자료</h2> <p class="prd-lede">실제 서비스 · 발표 자료 · 데모 영상 · 뉴스 보도를 모두 모았습니다.</p> </div> <div class="prd-block"> <div class="prd-video-grid"> <figure class="prd-video"> <iframe loading="lazy" src="https://www.youtube.com/embed/yk9EnnziWVw" title="NHN AI 스프린톤 1일차" allow="accelerometer; clipboard-write; encrypted-media; gyroscope; picture-in-picture; web-share" allowfullscreen></iframe> <figcaption>스프린톤 1일차 (라이브)</figcaption> </figure> <figure class="prd-video"> <iframe loading="lazy" src="https://www.youtube.com/embed/w5h4cxDSTog" title="NHN AI 스프린톤 2일차" allow="accelerometer; clipboard-write; encrypted-media; gyroscope; picture-in-picture; web-share" allowfullscreen></iframe> <figcaption>스프린톤 2일차 (라이브)</figcaption> </figure> <figure class="prd-video"> <iframe loading="lazy" src="https://www.youtube.com/embed/_2gPgEb4iJo" title="FG Angels 1등팀 인터뷰" allow="accelerometer; clipboard-write; encrypted-media; gyroscope; picture-in-picture; web-share" allowfullscreen></iframe> <figcaption>1등팀 인터뷰</figcaption> </figure> </div> </div> <div class="prd-block"> <div class="prd-table-wrap"> <table> <thead><tr><th>구분</th><th>제목</th><th>링크</th></tr></thead> <tbody> <tr><td class="lbl-cell">실제 서비스</td><td>FG Angels (Lovable)</td><td><a href="https://factory-finder-fashiongo.lovable.app/" target="_blank" rel="noopener">factory-finder-fashiongo.lovable.app</a></td></tr> <tr><td class="lbl-cell">발표 자료</td><td>Gamma 슬라이드</td><td><a href="https://gamma.app/docs/FG-Angels-ngjjjxo4700hh9s?mode=doc" target="_blank" rel="noopener">gamma.app/docs/FG-Angels</a></td></tr> <tr><td class="lbl-cell">뉴스</td><td>한국경제 (092)</td><td><a href="https://n.news.naver.com/mnews/article/092/[phone redacted]?sid=105" target="_blank" rel="noopener">n.news.naver.com/092/[phone redacted]</a></td></tr> <tr><td class="lbl-cell">뉴스</td><td>한국경제 (018)</td><td><a href="https://n.news.naver.com/mnews/article/018/[phone redacted]?sid=105" target="_blank" rel="noopener">n.news.naver.com/018/[phone redacted]</a></td></tr> </tbody> </table> </div> </div> </div> </section> </div> <div class="prd-back-list-wrap"><a href="portfolio.html" class="prd-back-list">← 목록 보기</a></div> <!-- Footer --> <footer class="prd-footer"> <div class="prd-footer-inner"> <div class="prd-footer-row"> <div class="prd-footer-left"> <div class="prd-footer-title">FG Angels — AI Agent for FashionGo</div> <div class="prd-footer-sub">윤혜련 · Service Product Manager · 2026.03 – 2026.06</div> </div> <div class="prd-footer-contact"> <a href="mailto:[email redacted]" class="prd-footer-link"> <span aria-hidden="true"></span> [email redacted]
           </a> <a href="https://www.linkedin.com/in/hyeryeon/" target="_blank" rel="noopener" class="prd-footer-link"> <span aria-hidden="true"></span> linkedin.com/in/hyeryeon
           </a> </div> </div> <div class="prd-footer-copyright">© 2026 윤혜련. All rights reserved.</div> </div> </footer>
 </section>